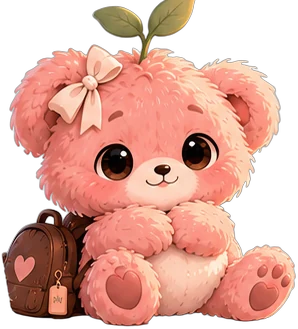
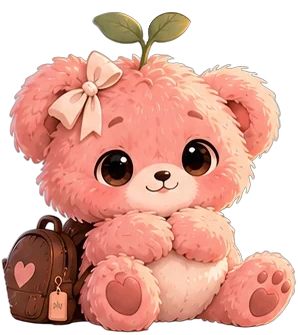
Fix cut-off edges: Riti's leaf and the selected pet and colour chips
- The plain Riti picture ended in a straight cut through the right leaf at the top; the leaf is now
  trimmed to a rounded tip with a darker rim, with a little room above it
- The pet chooser row and the drawing colour row scroll sideways, which clipped the ring of the
  selected (and slightly bigger) item at the top; both rows get a little padding

Claude-Session: https://claude.ai/code/session_01PGm1oqER54PPGc1tCaDdrQ

diff --git a/src/routes/_authenticated/diertje.tsx b/src/routes/_authenticated/diertje.tsx
@@ -194,7 +194,7 @@ function PetPage() {
   return (
     <div className="space-y-5 pt-2">
       <h1 className="text-3xl">Mijn diertjes</h1>
-      <div className="-mx-1 flex gap-2 overflow-x-auto px-1 pb-1">
+      <div className="-mx-1 flex gap-2 overflow-x-auto px-1 py-1.5">
         {[{ id: "main", species: pet.species, name: pet.name }, ...companions].map((c) => (
           <button key={c.id} onClick={() => { setActiveRef(c.id); setListId(null); }}
             className={`shrink-0 rounded-2xl px-3 py-2 text-center ${activeRef === c.id ? "bg-accent ring-2 ring-primary" : "bg-card shadow-soft"}`}>

diff --git a/src/components/DrawingPad.tsx b/src/components/DrawingPad.tsx
@@ -186,7 +186,7 @@ export function DrawingPad({
       </div>
 
       <div className="space-y-2 px-3 pb-[max(env(safe-area-inset-bottom),0.75rem)] pt-3">
-        <div className="flex gap-2 overflow-x-auto pb-1">
+        <div className="flex gap-2 overflow-x-auto px-1 py-1.5">
           {DRAW_COLORS.map((c) => (
             <button
               key={c}
